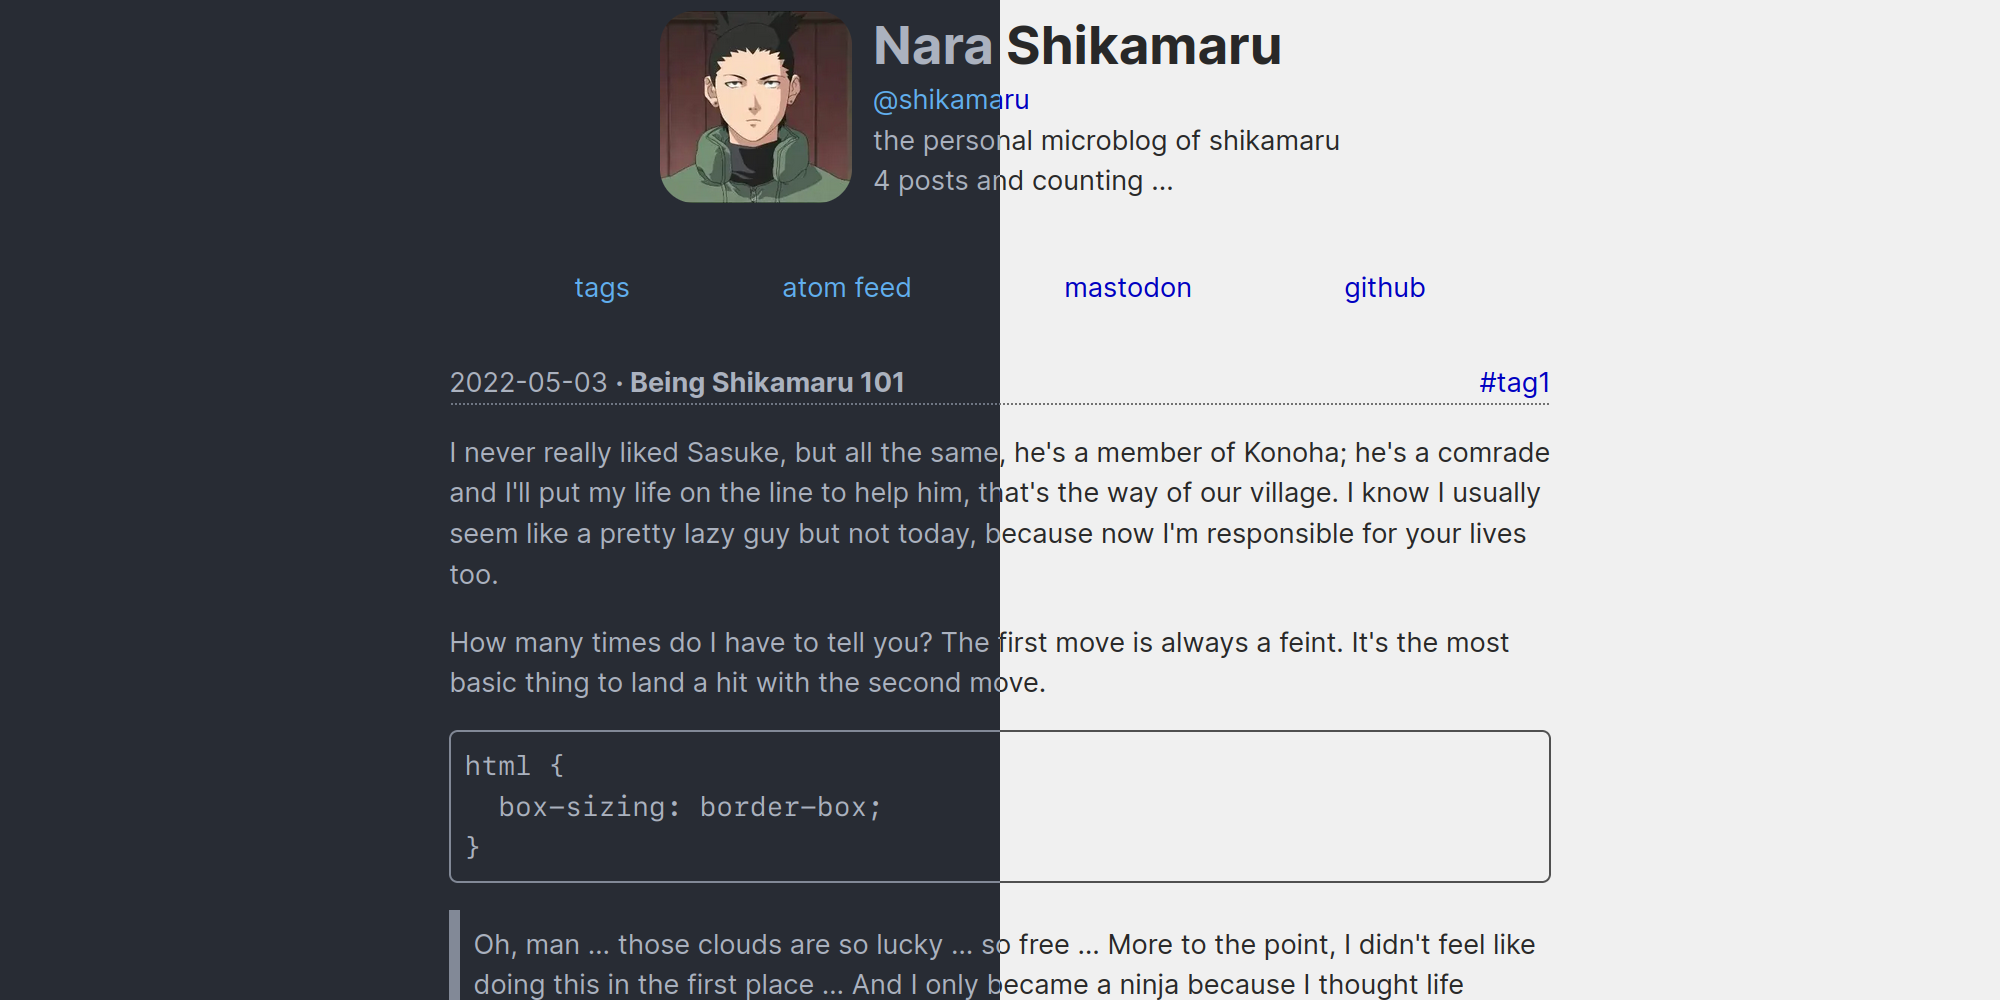
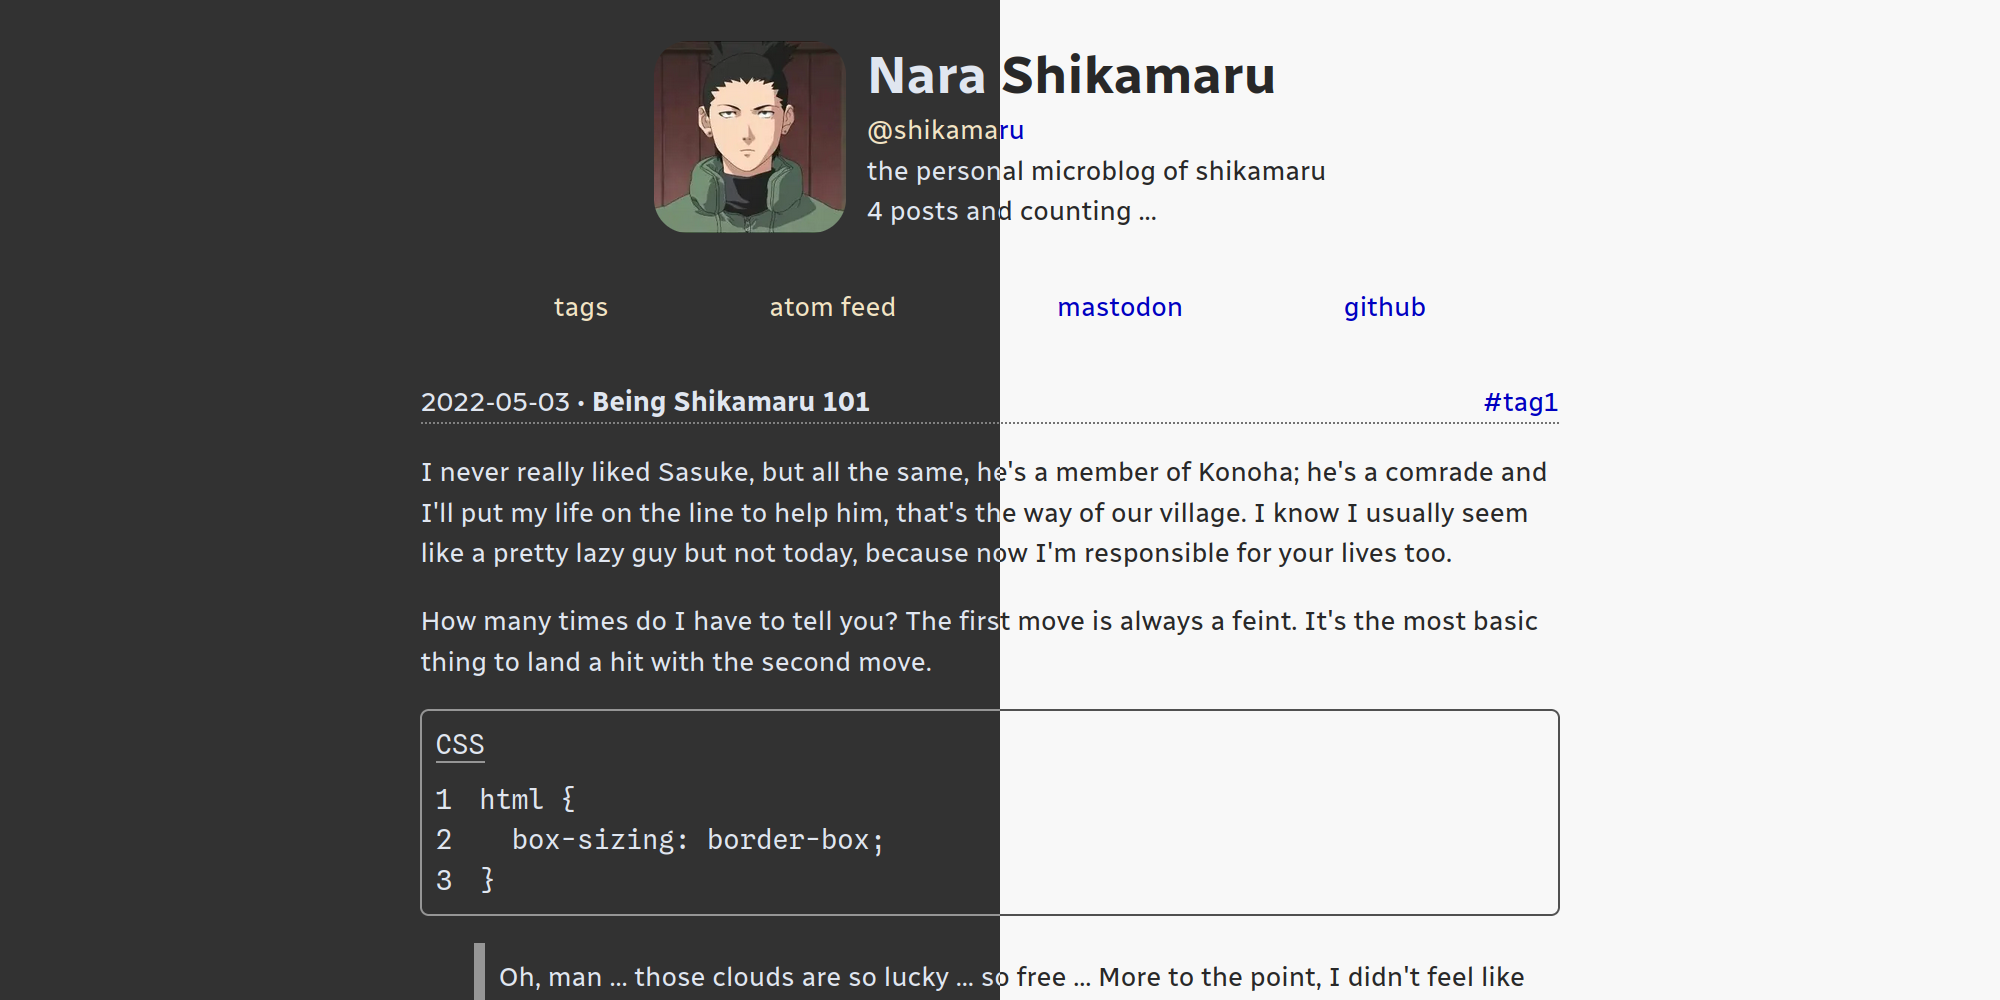
Squashed 'themes/kangae/' changes from 5e08608..19b0b4e
19b0b4e add new screenshot for getzola.org themes page
790bdd7 add microdata and microformats2 to TODO list
23b8b7e feat: add new dark mode colors
50d4cf2 fix: align the external link arrow in the middle

git-subtree-dir: themes/kangae
git-subtree-split: 19b0b4ee8a70db52b20d8b544e6c73a407a5dfa1

diff --git a/static/css/variables-dark-theme.css b/static/css/variables-dark-theme.css
@@ -1,10 +1,10 @@
-/* one dark colorscheme */
+/* modus vivendi colorscheme */
 
 :root {
-  --fg-color: #abb2bf;
-  --bg-color: #282c34;
-  --fg-href: #61afef;
-  --fg-border: #828997;
-  --bg-mark: #e5c07b;
-  --fg-mark: #282c34;
+  --fg-color: #e0e6f0;
+  --bg-color: #323232;
+  --fg-href: #f2e4c4;
+  --fg-border: #969696;
+  --bg-mark: #dfdfb0;
+  --fg-mark: #100f10;
 }

diff --git a/static/css/style-external-links.css b/static/css/style-external-links.css
@@ -8,4 +8,5 @@ a[href]:not(:where(
 ))::after {
   font-size: var(--step-s1);
   content: " ↗";
+  vertical-align: middle;
 }

diff --git a/README.md b/README.md
@@ -175,6 +175,7 @@ probably a better reference.
 - pagination
 - light and dark mode switch
 - content tabs
+- microdata and microformats2
 
 [1]: https://kangae.ayushnix.com/
 [2]: https://www.getzola.org/
